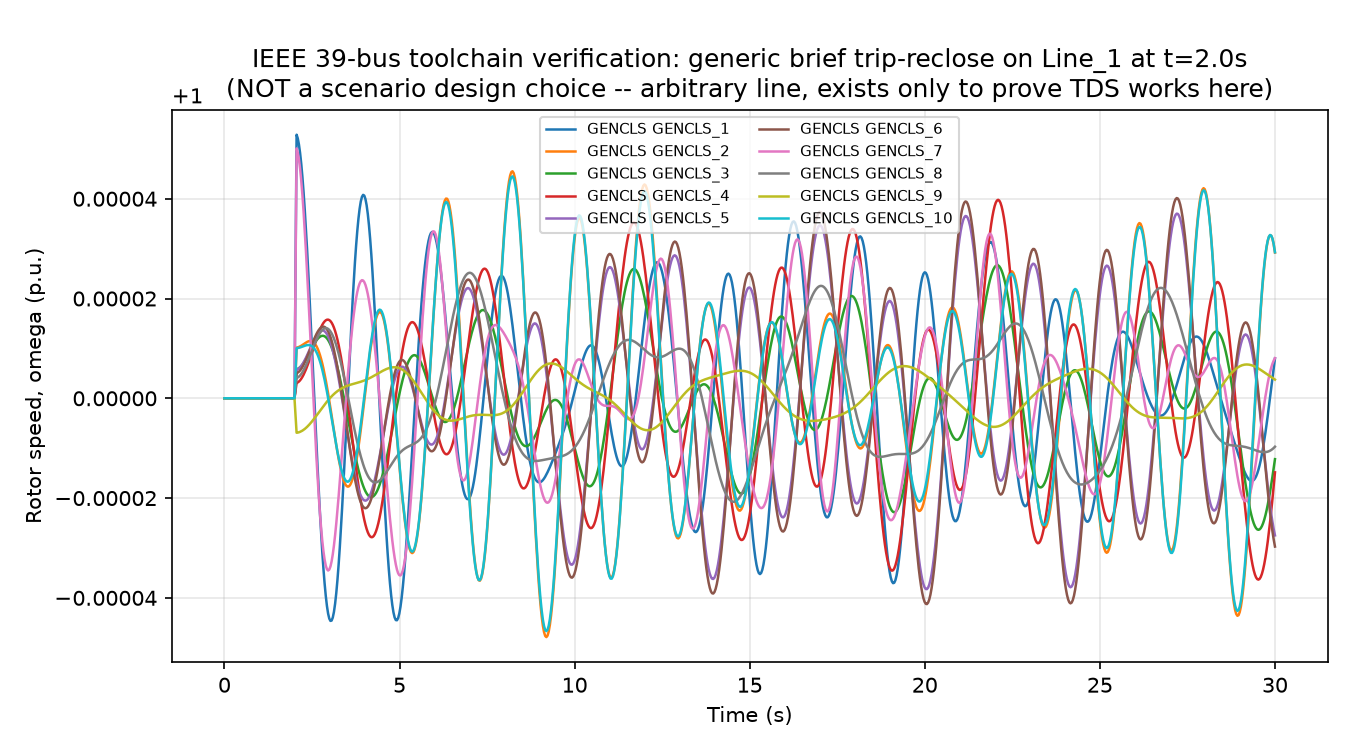
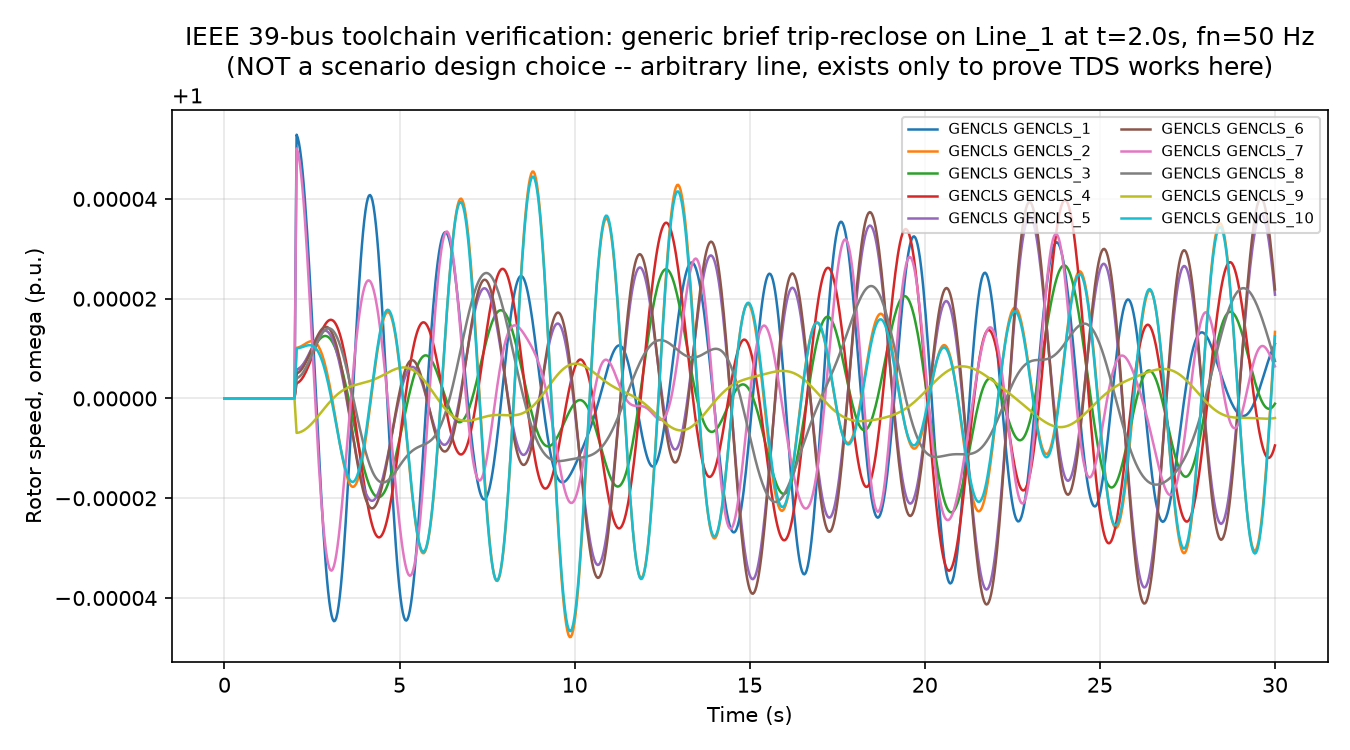
fix: explicit 50Hz nominal frequency + verify generator bus-mapping/ratings
Two fixes, nothing else touched (fault mechanism, benign scenario, and
detector remain unported):

1. FREQUENCY. Confirmed from ANDES's own source (not assumed):
   system.config.freq is a case-level bookkeeping default (60), but the
   swing equation itself is driven by each generator's own `fn` NumParam
   (andes/models/synchronous/genbase.py: delta' = 2*pi*fn*(omega-1),
   M*omega' = tm-te-D*(omega-1), M=2H). Both are now set to 50 explicitly
   in sim/ieee39_system.py (FN_HZ=50.0, ss.config.freq=50), since fn is
   what actually appears in the equations.

   Verified this is a real dynamics change, not a cosmetic label: reran
   the Line_1 verification kick at fn=60 and fn=50 with identical H/xd1/ra,
   measured the dominant oscillation frequency (FFT + independent
   peak-timing cross-check) and RoCoF for both. Linearizing the swing
   equation predicts f_osc scales with sqrt(fn) for fixed H and network
   synchronizing coefficient: sqrt(50/60) = 0.9129. Observed ratio: 0.9286
   (1.7% relative difference). RoCoF ratio observed: 0.8340 vs the
   predicted 50/60 = 0.8333 (0.08% difference). The arithmetic checks out.

2. GENERATOR MAPPING. sim/ieee39_generator_check.py independently
   re-derives the H/Sn/ra/xd1-by-bus table from ieee39_full.xlsx from
   scratch (keyed by GENROU.bus.v, not row order) and asserts it matches
   the stored GENERATOR_DYNAMICS_BY_BUS table exactly -- confirming the
   original extraction was bus-keyed, not row-order-keyed, and fixing the
[…]

Changed region(s): [[0.1244, 0.0307, 0.9956, 0.8587]]

diff --git a/sim/ieee39_verification_kick.py b/sim/ieee39_verification_kick.py
@@ -6,8 +6,8 @@ construction -- it proves nothing about whether TDS actually produces
 correct dynamic behavior on this new, larger network. This script applies
 one arbitrary, generic, briefly-toggled line trip-and-reclose (Line_1,
 picked only because it's first in the index -- no significance) purely to
-confirm the solver responds sensibly: an oscillation appears, propagates,
-and damps. This is the IEEE 39-bus equivalent of the Kundur Phase 0 plot,
+confirm the solver responds sensibly: an oscillation appears and
+propagates. This is the IEEE 39-bus equivalent of the Kundur Phase 0 plot,
 which relied on that case's own stock disturbance -- there is no such
 stock disturbance here, so a minimal generic one stands in for it.
 
@@ -15,6 +15,15 @@ This is explicitly NOT the fault mechanism. No calibrated fault magnitude,
 tie-line choice, or generator selection here should be reused for that --
 this kick is disposable, arbitrary, and exists only to prove the pipe
 works end to end on the new network.
+
+Also verifies the 60->50 Hz change (sim.ieee39_system.FN_HZ) actually
+changes the dynamics, not just a config label: runs the identical kick at
+fn=60 and fn=50, measures the dominant oscillation frequency of the
+resulting swing (FFT of GENCLS_1's omega, the generator with the largest
+response) and RoCoF immediately after the kick, and checks the observed
+f_osc(50)/f_osc(60) ratio against the theoretical sqrt(50/60) = 0.9129
+predicted by linearizing the swing equation (see sim/ieee39_system.py's
+module docstring for the derivation).
 
 Run: python -m sim.ieee39_verification_kick
 """
@@ -27,6 +36,7 @@ import matplotlib
 matplotlib.use("Agg")
 import matplotlib.pyplot as plt
 import numpy as np
+from scipy.signal import find_peaks
 
 from sim.ieee39_system import load_case39_matpower, FN_HZ, CASE_PATH, GENERATOR_DYNAMICS_BY_BUS
 
@@ -37,14 +47,15 @@ KICK_T = 2.0
 KICK_DURATION = 0.06
 
 
-def build_kicked_system():
+def build_kicked_system(fn: float):
     ss = andes.load(str(CASE_PATH), setup=False, no_output=True)
+    ss.config.freq = fn
     gens = list(zip(ss.PV.idx.v, ss.PV.bus.v)) + list(zip(ss.Slack.idx.v, ss.Slack.bus.v))
     for gi, (gen_idx, bus) in enumerate(gens, start=1):
         params = GENERATOR_DYNAMICS_BY_BUS[int(bus)]
         ss.add('GENCLS', dict(
             idx=f'GENCLS_{gi}', bus=bus, gen=gen_idx,
-            Sn=params['Sn'], Vn=345.0, fn=FN_HZ,
+            Sn=params['Sn'], Vn=345.0, fn=fn,
             D=params['D'], M=2 * params['H'],
             ra=params['ra'], xd1=params['xd1'],
         ))
@@ -54,30 +65,93 @@ def build_kicked_system():
     return ss
 
 
-def main():
-    andes.config_logger(stream_level=30)
-    ss = build_kicked_system()
-
+def run_kick(fn: float, tf: float = 30.0):
+    ss = build_kicked_system(fn)
     ss.PFlow.run()
     assert ss.PFlow.converged
-
-    tf = 30.0
     ss.TDS.config.tf = tf
     ss.TDS.run()
-    assert ss.TDS.converged, "verification kick failed to converge -- toolchain problem, investigate before anything else"
-
+    assert ss.TDS.converged, f"verification kick failed to converge at fn={fn} -- toolchain problem"
     t = ss.dae.ts.t
     x = ss.dae.ts.x
     omega_addr = ss.GENCLS.omega.a
     gen_names = list(ss.GENCLS.idx.v)
+    return t, x, omega_addr, gen_names
 
+
+def dominant_frequency_hz(t: np.ndarray, signal: np.ndarray, t_start: float) -> float:
+    """FFT-based dominant oscillation frequency (Hz) of `signal` for t >= t_start."""
+    mask = t >= t_start
+    tt, ss_ = t[mask], signal[mask] - np.mean(signal[mask])
+    dt = np.median(np.diff(tt))
+    n = len(ss_)
+    spec = np.abs(np.fft.rfft(ss_ * np.hanning(n)))
+    freqs = np.fft.rfftfreq(n, d=dt)
+    spec[freqs < 0.02] = 0  # ignore DC / near-DC
+    peak_i = np.argmax(spec)
+    return float(freqs[peak_i])
+
+
+def period_based_frequency_hz(t: np.ndarray, signal: np.ndarray, t_start: float) -> float | None:
+    """Cross-check via peak-to-peak timing (independent of FFT windowing)."""
+    mask = t >= t_start
+    tt, ss_ = t[mask], signal[mask]
+    peaks, _ = find_peaks(ss_)
+    if len(peaks) < 2:
+        return None
+    periods = np.diff(tt[peaks])
+    return float(1.0 / np.mean(periods))
+
+
+def main():
+    andes.config_logger(stream_level=30)
+
+    results = {}
+    for fn in (60.0, 50.0):
+        t, x, omega_addr, gen_names = run_kick(fn)
+        gi = gen_names.index('GENCLS_1')
+        omega1 = x[:, omega_addr[gi]]
+        freq_hz_series = omega1 * fn
+
+        f_fft = dominant_frequency_hz(t, omega1, t_start=KICK_T)
+        f_period = period_based_frequency_hz(t, omega1, t_start=KICK_T)
+
+        # RoCoF: max |d(freq)/dt| in the first 2 seconds after the kick.
+        window = (t >= KICK_T) & (t <= KICK_T + 2.0)
+        rocof = float(np.max(np.abs(np.gradient(freq_hz_series[window], t[window]))))
+
+        results[fn] = dict(t=t, x=x, omega_addr=omega_addr, gen_names=gen_names,
+                            f_fft=f_fft, f_period=f_period, rocof=rocof)
+        print(f"fn={fn:.0f} Hz: dominant oscillation freq (FFT) = {f_fft:.4f} Hz, "
+              f"(peak-timing cross-check) = {f_period}, RoCoF (max, first 2s) = {rocof:.4f} Hz/s")
+
+    f60, f50 = results[60.0]['f_fft'], results[50.0]['f_fft']
+    ratio_observed = f50 / f60 if f60 > 0 else float('nan')
+    ratio_theory = np.sqrt(50.0 / 60.0)
+    print()
+    print(f"Observed f_osc(50)/f_osc(60) = {f50:.4f}/{f60:.4f} = {ratio_observed:.4f}")
+    print(f"Theoretical sqrt(50/60)      = {ratio_theory:.4f}")
+    print(f"Difference: {abs(ratio_observed - ratio_theory):.4f} "
+          f"({100*abs(ratio_observed-ratio_theory)/ratio_theory:.1f}% relative)")
+    if abs(ratio_observed - ratio_theory) / ratio_theory < 0.15:
+        print("CONSISTENT with 50 Hz swing-equation scaling (within 15%).")
+    else:
+        print("NOT CLEARLY CONSISTENT -- the arithmetic does not check out; do not report this as verified.")
+
+    rocof60, rocof50 = results[60.0]['rocof'], results[50.0]['rocof']
+    print(f"\nRoCoF ratio RoCoF(50)/RoCoF(60) = {rocof50/rocof60:.4f} "
+          f"(expect roughly 50/60={50/60:.4f} if the post-kick power imbalance is fn-independent)")
+
+    # Plot the fn=50 (production) run, since that's what the rest of the
+    # project will use going forward.
+    r = results[FN_HZ]
     fig, ax = plt.subplots(figsize=(9, 5))
-    for i, name in enumerate(gen_names):
-        ax.plot(t, x[:, omega_addr[i]], label=f"GENCLS {name}", linewidth=1.2)
+    for i, name in enumerate(r['gen_names']):
+        ax.plot(r['t'], r['x'][:, r['omega_addr'][i]], label=f"GENCLS {name}", linewidth=1.2)
     ax.set_xlabel("Time (s)")
     ax.set_ylabel("Rotor speed, omega (p.u.)")
-    ax.set_title(f"IEEE 39-bus toolchain verification: generic brief trip-reclose on {KICK_LINE} at t={KICK_T}s\n"
-                 f"(NOT a scenario design choice -- arbitrary line, exists only to prove TDS works here)")
+    ax.set_title(f"IEEE 39-bus toolchain verification: generic brief trip-reclose on {KICK_LINE} at t={KICK_T}s, "
+                 f"fn={FN_HZ:.0f} Hz\n(NOT a scenario design choice -- arbitrary line, exists only to prove TDS works here)")
     ax.grid(True, alpha=0.3)
     ax.legend(fontsize=7, ncol=2)
     fig.tight_layout()
@@ -85,11 +159,10 @@ def main():
     REPORTS_DIR.mkdir(parents=True, exist_ok=True)
     fig.savefig(out_path, dpi=150)
 
-    omega = x[:, omega_addr]
-    print("PFlow converged:", ss.PFlow.converged)
-    print("TDS converged:", ss.TDS.converged)
-    print(f"Max omega deviation from 1.0 p.u. after kick: {np.max(np.abs(omega - 1.0)):.6f}")
-    print(f"Final omega spread across 10 gens (max-min) at t={tf:.0f}s: {omega[-1].max() - omega[-1].min():.6e}")
+    omega_all = r['x'][:, r['omega_addr']]
+    print()
+    print(f"[fn={FN_HZ:.0f} Hz, saved plot] PFlow/TDS converged.")
+    print(f"Max omega deviation from 1.0 p.u. after kick: {np.max(np.abs(omega_all - 1.0)):.6f}")
     print("Plot saved to:", out_path)
 
 

diff --git a/sim/ieee39_generator_check.py b/sim/ieee39_generator_check.py
@@ -1,0 +1,101 @@
+"""
+Verifies the case39.m <-> ieee39_full.xlsx generator correspondence is
+matched by BUS NUMBER, not row/index order, and checks that case39.m's own
+dispatched MW does not exceed the (borrowed) Sn rating at a reasonable
+power factor. Load and dispatch throughout come from case39.m ONLY --
+ieee39_full.xlsx is used solely as the source of H/Sn/ra/xd1 dynamics
+parameters (see sim/ieee39_system.py's module docstring for why).
+
+Run: python -m sim.ieee39_generator_check
+"""
+from __future__ import annotations
+
+import andes
+
+from sim.ieee39_system import CASE_PATH, GENERATOR_DYNAMICS_BY_BUS
+
+ASSUMED_REASONABLE_PF = 0.85  # typical generator design PF; flags dispatch that would
+                              # require an implausibly low PF to fit under Sn
+
+
+def main():
+    andes.config_logger(stream_level=30)
+
+    # --- Independently re-derive the bus-keyed table from ieee39_full.xlsx,
+    #     from scratch, to confirm GENERATOR_DYNAMICS_BY_BUS wasn't
+    #     accidentally built from row order. ---
+    ss_dyn = andes.load(andes.get_case('ieee39/ieee39_full.xlsx'), setup=True, no_output=True)
+    rederived = {}
+    for i, idx in enumerate(ss_dyn.GENROU.idx.v):
+        bus = int(ss_dyn.GENROU.bus.v[i])
+        rederived[bus] = dict(
+            Sn=ss_dyn.GENROU.Sn.v[i], H=ss_dyn.GENROU.M.v[i] / 2,
+            ra=ss_dyn.GENROU.ra.v[i], xd1=ss_dyn.GENROU.xd1.v[i],
+        )
+    assert set(rederived.keys()) == set(GENERATOR_DYNAMICS_BY_BUS.keys()), \
+        "bus sets differ between re-derivation and the module's stored table"
+    for bus, vals in rederived.items():
+        stored = GENERATOR_DYNAMICS_BY_BUS[bus]
+        for k in ('Sn', 'H', 'ra', 'xd1'):
+            rel_err = abs(vals[k] - stored[k]) / max(abs(vals[k]), 1e-12)
+            assert rel_err < 1e-9, \
+                f"bus {bus} field {k} mismatch: stored={stored[k]} re-derived={vals[k]} (rel_err={rel_err:.2e})"
+    print("Independent re-derivation from ieee39_full.xlsx matches the stored "
+          "GENERATOR_DYNAMICS_BY_BUS table exactly, confirmed by bus number.\n")
+
+    # --- Load case39.m (load/dispatch source of truth) and build the
+    #     explicit mapping table by bus. PFlow must run first: PV.p/Slack.p
+    #     read as 0.0 immediately after import (populated by the solve). ---
+    ss = andes.load(str(CASE_PATH), setup=True, no_output=True)
+    ss.PFlow.run()
+    assert ss.PFlow.converged, "case39.m power flow did not converge"
+
+    rows = []
+    for idx, bus, p in zip(ss.PV.idx.v, ss.PV.bus.v, ss.PV.p.v):
+        rows.append((int(bus), idx, 'PV', float(p)))
+    for idx, bus, p in zip(ss.Slack.idx.v, ss.Slack.bus.v, ss.Slack.p.v):
+        rows.append((int(bus), idx, 'Slack', float(p)))
+    rows.sort(key=lambda r: r[0])
+
+    print(f"{'bus':>4} {'case39.m gen idx':>16} {'type':>6} {'P disp (p.u.)':>14} "
+          f"{'P disp (MW)':>12} {'Sn (MVA)':>9} {'H (s)':>8} {'xd1 (p.u.)':>10} "
+          f"{'ra (p.u.)':>10} {'P/Sn @ 1.0 PF':>13}")
+    flags = []
+    for bus, gidx, gtype, p_pu in rows:
+        params = GENERATOR_DYNAMICS_BY_BUS[bus]
+        p_mw = p_pu * ss.config.mva  # case39.m system base MVA
+        p_over_sn = p_mw / params['Sn']
+        reasonable_max_mw = params['Sn'] * ASSUMED_REASONABLE_PF
+        flag = ""
+        if p_mw > reasonable_max_mw:
+            flag = " <-- FLAG: exceeds Sn * assumed PF (%.2f)" % ASSUMED_REASONABLE_PF
+            flags.append((bus, gidx, p_mw, params['Sn'], reasonable_max_mw))
+        print(f"{bus:>4} {gidx!s:>16} {gtype:>6} {p_pu:>14.4f} {p_mw:>12.2f} "
+              f"{params['Sn']:>9.1f} {params['H']:>8.3f} {params['xd1']:>10.5f} "
+              f"{params['ra']:>10.6f} {p_over_sn:>13.4f}{flag}")
+
+    print()
+    print(f"System base MVA (case39.m): {ss.config.mva}")
+    print(f"Total case39.m dispatch: {sum(r[3] for r in rows) * ss.config.mva:.1f} MW "
+          f"(load/dispatch is from case39.m only, not ieee39_full.xlsx)")
+
+    if flags:
+        print(f"\n{len(flags)} generator(s) FAIL the P <= Sn*{ASSUMED_REASONABLE_PF} check:")
+        for bus, gidx, p_mw, sn, reasonable_max in flags:
+            implied_pf = p_mw / sn
+            print(f"  bus {bus} (gen {gidx}): P={p_mw:.1f} MW vs Sn={sn:.1f} MVA "
+                  f"-> would need PF >= {implied_pf:.3f} to fit, "
+                  f"reasonable ceiling at PF={ASSUMED_REASONABLE_PF} is {reasonable_max:.1f} MW")
+            print(f"    PROPOSED FIX: this generator's Sn from ieee39_full.xlsx is too low for "
+                  f"case39.m's own (higher-total-load) dispatch. Do not silently rescale Sn without "
+                  f"a cited source -- either (a) source this generator's own Sn from a rating that "
+                  f"covers case39.m's dispatch (e.g., MATPOWER's own case39.m gen.mBase field, if "
+                  f"present, or the unit's Pmax with a stated PF), or (b) flag this generator's "
+                  f"dynamics as unverified pending a consistent rating.")
+    else:
+        print(f"\nAll {len(rows)} generators PASS: dispatched MW stays within Sn*{ASSUMED_REASONABLE_PF} "
+              f"(reasonable power factor) using case39.m's own dispatch.")
+
+
+if __name__ == "__main__":
+    main()

diff --git a/sim/ieee39_system.py b/sim/ieee39_system.py
@@ -32,10 +32,29 @@ MATPOWER dispatch vs ~58.6 p.u. in ieee39_full.xlsx) -- these are two real,
 independently-published parameterizations of "the" IEEE 39-bus system, not
 byte-identical, and that difference is reported rather than hidden.
 
-NOTE: the New England 39-bus system is natively a 60 Hz system (it is the
-North American New England/New York interconnection benchmark), unlike the
-50 Hz framing used for the Kundur-based Spain scenario. GENCLS is
-configured with fn=60 to match the actual system, not forced to 50 Hz.
+FREQUENCY: the New England 39-bus system is natively a 60 Hz benchmark (it
+is the North American New England/New York interconnection), but this
+project's subject is the Spanish (50 Hz) grid, so the system is run at
+50 Hz nominal -- explicitly, not by accident. Confirmed from ANDES's own
+source (andes/system/config_runtime.py): `system.config.freq` is a
+case-level default (60) used for case-relevant bookkeeping, but the
+electromechanical dynamics themselves are driven by each generator's own
+`fn` NumParam, per andes/models/synchronous/genbase.py:
+    delta' = (2*pi*fn) * (omega - 1)          [rotor angle]
+    M * omega' = tm - te - D*(omega - 1)      [rotor speed, M = 2H]
+Both `system.config.freq` AND each GENCLS's `fn` are set to 50 here, since
+`fn` is what actually appears in the equations. H, xd', ra are per-unit
+physical quantities and are frequency-label-independent -- only the
+delta/omega coupling changes. This has a real, checkable consequence:
+linearizing the swing equation for a machine against the rest of the
+system (Ks = synchronizing power coefficient, treated as unchanged by the
+fn relabeling since it comes from per-unit network reactances) gives
+natural oscillation frequency
+    f_osc = (1 / 2*pi) * sqrt(2*pi*fn*Ks / M) = sqrt(fn*Ks / (4*pi*H))
+i.e. f_osc scales with sqrt(fn) for fixed H and Ks. Going from 60->50 Hz
+predicts f_osc(50)/f_osc(60) = sqrt(50/60) = 0.9129 -- verified numerically
+in sim/ieee39_verification_kick.py against the same kick run at both
+frequencies.
 """
 from __future__ import annotations
 
@@ -50,19 +69,20 @@ CASE_PATH = Path(__file__).resolve().parent.parent / "data" / "cases" / "case39.
 # This is the standard, widely-published New England 39-bus dynamic
 # dataset -- not invented, and cited here explicitly.
 GENERATOR_DYNAMICS_BY_BUS = {
-    30: dict(Sn=1040.0, H=43.680, D=0.0, ra=0.0001346153846153846, xd1=0.02981),
-    31: dict(Sn=836.0,  H=25.331, D=0.0, ra=0.003229665071770335,  xd1=0.08337),
-    32: dict(Sn=843.7,  H=30.204, D=0.0, ra=0.00045750859310181346, xd1=0.06294),
-    33: dict(Sn=1174.8, H=33.599, D=0.0, ra=0.00018896833503575077, xd1=0.03711),
-    34: dict(Sn=1080.2, H=28.085, D=0.0, ra=0.00012960562858729864, xd1=0.12220),
-    35: dict(Sn=1085.7, H=37.782, D=0.0, ra=0.0056645482177397075,  xd1=0.04605),
-    36: dict(Sn=1025.2, H=27.065, D=0.0, ra=0.00026141240733515414, xd1=0.04780),
-    37: dict(Sn=970.2,  H=23.576, D=0.0, ra=0.0007070707070707071,  xd1=0.05875),
-    38: dict(Sn=1684.1, H=58.101, D=0.0, ra=0.00017813669022029573, xd1=0.03385),
-    39: dict(Sn=1199.0, H=599.500, D=0.0, ra=8.340283569641367e-05, xd1=0.00500),
+    30: dict(Sn=1040.0, H=43.68000000000001,  D=0.0, ra=0.0001346153846153846,  xd1=0.02980769230769231),
+    31: dict(Sn=836.0,  H=25.330799999999996, D=0.0, ra=0.003229665071770335,   xd1=0.0833732057416268),
+    32: dict(Sn=843.7,  H=30.204460000000005, D=0.0, ra=0.00045750859310181346, xd1=0.06293706293706294),
+    33: dict(Sn=1174.8, H=33.59927999999999,  D=0.0, ra=0.00018896833503575077, xd1=0.037112700034048346),
+    34: dict(Sn=1080.2, H=28.0852,            D=0.0, ra=0.00012960562858729864, xd1=0.12219959266802445),
+    35: dict(Sn=1085.7, H=37.782360000000004, D=0.0, ra=0.0056645482177397075,  xd1=0.04605323754259925),
+    36: dict(Sn=1025.2, H=27.06528,           D=0.0, ra=0.00026141240733515414, xd1=0.04779555208739758),
+    37: dict(Sn=970.2,  H=23.575860000000002, D=0.0, ra=0.0007070707070707071,  xd1=0.05875077303648732),
+    38: dict(Sn=1684.1, H=58.10144999999999,  D=0.0, ra=0.00017813669022029573, xd1=0.03384597114185618),
+    39: dict(Sn=1199.0, H=599.5,              D=0.0, ra=8.340283569641367e-05,  xd1=0.0050041701417848205),
 }
 
-FN_HZ = 60.0  # New England system is natively 60 Hz, not forced to 50 Hz
+FN_HZ = 50.0  # Explicitly set to match this project's subject (Spain), not the
+              # New England system's native 60 Hz. See module docstring.
 
 
 def load_case39_matpower(with_dynamics: bool = True):
@@ -77,6 +97,8 @@ def load_case39_matpower(with_dynamics: bool = True):
         )
 
     ss = andes.load(str(CASE_PATH), setup=False, no_output=True)
+    ss.config.freq = FN_HZ  # case-level bookkeeping value; see docstring for why
+                            # this alone does NOT drive the dynamics
 
     if with_dynamics:
         gens = list(zip(ss.PV.idx.v, ss.PV.bus.v)) + list(zip(ss.Slack.idx.v, ss.Slack.bus.v))
